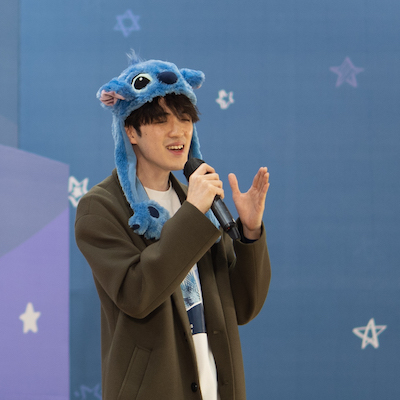
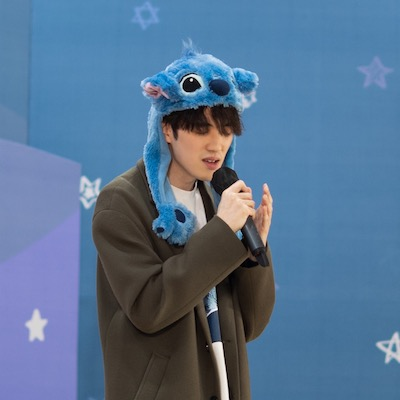
fix: 씽스틸러 사진 교체

diff --git a/src/containers/vote/VoteSection/variables.js b/src/containers/vote/VoteSection/variables.js
@@ -6,8 +6,8 @@ import Poster19Fall from '@I/poster/19fall.png';
 import Poster18Fall from '@I/poster/18fall.jpeg';
 import Poster17Fall from '@I/poster/17fall.jpg';
 
-import SingStealer1 from '@I/vote/sing-stealer-1.jpg';
-import SingStealer2 from '@I/vote/sing-stealer-2.jpg';
+import SingStealer1 from '@I/vote/sing-stealer-1.jpeg';
+import SingStealer2 from '@I/vote/sing-stealer-2.jpeg';
 import SingStealer3 from '@I/vote/sing-stealer-3.jpg';
 import SingStealer4 from '@I/vote/sing-stealer-4.jpg';
 import SingStealer5 from '@I/vote/sing-stealer-5.jpg';
@@ -23,8 +23,8 @@ import SingStealer14 from '@I/vote/sing-stealer-14.jpg';
 import SingStealer15 from '@I/vote/sing-stealer-15.jpg';
 import SingStealer16 from '@I/vote/sing-stealer-16.jpg';
 import SingStealer17 from '@I/vote/sing-stealer-17.jpg';
-import SingStealer1Small from '@I/vote/sing-stealer-1-small.jpg';
-import SingStealer2Small from '@I/vote/sing-stealer-2-small.jpg';
+import SingStealer1Small from '@I/vote/sing-stealer-1-small.jpeg';
+import SingStealer2Small from '@I/vote/sing-stealer-2-small.jpeg';
 import SingStealer3Small from '@I/vote/sing-stealer-3-small.jpg';
 import SingStealer4Small from '@I/vote/sing-stealer-4-small.jpg';
 import SingStealer5Small from '@I/vote/sing-stealer-5-small.jpg';
